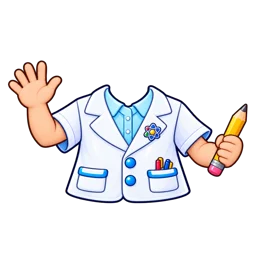
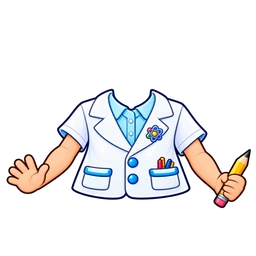
새 캐릭터 앤지 추가, 캐릭터 그림과 착용 위치 다시 맞춤
- 프리셋에 angie(앤지) 추가, 이름 ko/en
- 수지·지호·나연 얼굴 그림과 의상 그림 교체(손 위치 낮춤), 캐시 무효화용 ?v= 쿼리
- 리그 재조정: 얼굴 크기·위치, 머리 장식·리본·머리핀(clipY)·안경 위치, 상체 옷깃 중심 보정(BODY_FACE_SHIFT_X)

Changed region(s): [[0.0, 0.2188, 1.0, 0.8125]]

diff --git a/public/core/character.js b/public/core/character.js
@@ -2,7 +2,7 @@
  * character.js - 캐릭터 그리기. 모든 화면과 게임이 이것 하나로 캐릭터를 보여 줍니다.
  *
  *   const c = createCharacter(el, look, { body: true })
- *     look = { key, face: 얼굴 그림 주소, rig: 'sooji'|'jiho'|'nayeon'|'photo', equipped: { outfit, head, face, back, pet } }
+ *     look = { key, face: 얼굴 그림 주소, rig: 'sooji'|'jiho'|'nayeon'|'angie'|'photo', equipped: { outfit, head, face, back, pet } }
  *     body: false 면 얼굴만(머리 장식·안경은 그대로) 그립니다.
  *   c.react('correct'|'wrong'|'timeout'|'clear'|'fail'|'idle')   표정 + 동작
  *   c.expression('neutral'|'happy'|'angry'|'surprised'|'sad')     표정만 바꾸기(다음 react 전까지 유지)
@@ -17,6 +17,8 @@ import { COSMETICS, BASE_OUTFIT } from './catalog.js';
 const EXPRESSIONS = ['neutral', 'happy', 'angry', 'surprised', 'sad'];
 const BOX_W = 250;
 const BOX_H = 275;
+/* 상체의 옷깃 중심에 맞춰 얼굴과 얼굴 장식을 함께 오른쪽으로 옮깁니다. */
+const BODY_FACE_SHIFT_X = 6;
 
 /* 착용 위치(기준 좌표 px). 캐릭터 그림에서 눈 높이·정수리·어깨선을 재서 맞췄습니다. */
 const BASE_RIG = {
@@ -30,16 +32,29 @@ const BASE_RIG = {
   bow: { headY: -42, headW: 145 }
 };
 export const RIGS = {
-  sooji: { ...BASE_RIG, headX: '45.5%', headW: 198, glassesX: '42%', glassesAngle: -8.7 },
+  /* 애니메이션 수지: 제작 시트의 공통 투명 여백을 정리한 512×512 런타임 셀. */
+  sooji: { ...BASE_RIG, faceY: -56, faceW: 300, faceH: 300,
+    headX: '45.5%', headY: -96, headW: 218, clipY: -10, glassesX: '47%', glassesY: 62,
+    glassesW: 142, glassesScale: 1.1, glassesAngle: -8.7,
+    bow: { headY: -58, headW: 155 } },
   jiho: {
-    ...BASE_RIG, faceY: -21, faceW: 174, faceH: 196, headX: '52%', headY: -90, headAngle: 5,
-    glassesX: '48%', glassesAngle: -4.9, bow: { headY: -35, headW: 132 }
+    ...BASE_RIG, faceX: '50.7%', faceY: -64.2, faceW: 263.4, faceH: 263.4,
+    headY: -114, headW: 218, headAngle: 0, clipY: -28,
+    glassesY: 59.5, glassesW: 138, glassesScale: 1.15,
+    bow: { headY: -76, headW: 155 }
   },
-  /* 목 없는 단발 머리와 정면 눈높이에 맞춰 얼굴 영역과 장식 위치를 조정합니다. */
+  /* 눈–턱 크기와 피부 턱끝 높이는 수지 기준. 얼굴·머리카락은 의상 앞에 그립니다. */
   nayeon: {
-    ...BASE_RIG, faceY: -8, faceW: 194, faceH: 218,
-    headY: -68, headW: 198, headAngle: 0,
-    glassesY: 80, glassesW: 114, glassesScale: 1.35, bow: { headY: -29, headW: 140 }
+    ...BASE_RIG, faceX: '49.2%', faceY: -78.4, faceW: 327.8, faceH: 327.8,
+    headY: -117, headW: 218, headAngle: 0, clipY: -34,
+    glassesY: 60.5, glassesW: 134, glassesScale: 1.15,
+    bow: { headY: -79, headW: 155 }
+  },
+  angie: {
+    ...BASE_RIG, faceX: '45.8%', faceY: -64.8, faceW: 300, faceH: 300,
+    headX: '47%', headY: -111, headW: 218, headAngle: 0, clipY: -25,
+    glassesY: 59, glassesW: 140, glassesScale: 1.1,
+    bow: { headY: -73, headW: 155 }
   },
   /* 사진 캐릭터: 정사각형 칸, 눈이 칸의 54% 높이(core/maker.js 의 EYE_Y) */
   photo: { ...BASE_RIG, faceY: 2, faceW: 200, faceH: 200, headY: -70, glassesY: 75, glassesW: 128, bow: { headY: -34, headW: 140 } }
@@ -113,6 +128,8 @@ export function createCharacter(el, look, { body = true } = {}) {
     current = next;
     const r = RIGS[next.rig] || RIGS.photo;
     const eq = next.equipped || {};
+    const faceShiftX = body ? BODY_FACE_SHIFT_X : 0;
+    const faceAnchorX = (x) => faceShiftX ? `calc(${px(x)} + ${faceShiftX}px)` : x;
     /* 가면처럼 위로 긴 안경도 렌즈 구멍을 캐릭터 눈높이에 맞춥니다(그림은 2:1). */
     /* 렌즈 중심 = glassesY + 0.53 × glassesW/2 를 기준점으로 두고, 배율을 키워도 이 점이 움직이지 않게 합니다. */
     const glassesW = r.glassesW * (r.glassesScale ?? 1);
@@ -121,13 +138,14 @@ export function createCharacter(el, look, { body = true } = {}) {
     const bow = COSMETICS[eq.head]?.style === 'bow';
     const clip = COSMETICS[eq.head]?.style === 'clip';
     const vars = {
-      '--face-x': r.faceX, '--face-y': r.faceY, '--face-w': r.faceW, '--face-h': r.faceH,
-      '--head-x': clip ? `calc(${r.faceX} + ${r.faceW * 0.28}px)` : r.headX,
-      '--head-y': clip ? r.faceY + 12 : bow ? r.bow.headY : r.headY,
+      '--face-x': faceAnchorX(r.faceX), '--face-y': r.faceY, '--face-w': r.faceW, '--face-h': r.faceH,
+      '--head-x': clip ? `calc(${r.faceX} + ${r.faceW * 0.28 + faceShiftX}px)` : faceAnchorX(r.headX),
+      '--head-y': clip ? (r.clipY ?? r.faceY + 12) : bow ? r.bow.headY : r.headY,
       '--head-w': clip ? 90 : bow ? r.bow.headW : r.headW,
       '--head-angle': r.headAngle + 'deg',
-      '--glasses-x': r.glassesX, '--glasses-y': glassesY, '--glasses-w': glassesW, '--glasses-angle': r.glassesAngle + 'deg',
-      '--back-right': r.backRight, '--back-bottom': r.backBottom, '--back-w': r.backW, '--outfit-bottom': r.outfitBottom
+      '--glasses-x': faceAnchorX(r.glassesX), '--glasses-y': glassesY, '--glasses-w': glassesW, '--glasses-angle': r.glassesAngle + 'deg',
+      '--back-right': r.backRight, '--back-bottom': r.backBottom, '--back-w': r.backW,
+      '--outfit-bottom': r.outfitBottom
     };
     for (const [k, v] of Object.entries(vars)) rig.style.setProperty(k, px(v));
     /* 얼굴만 그릴 때는 얼굴 칸을 기준 상자로 씁니다. */

diff --git a/public/core/i18n.js b/public/core/i18n.js
@@ -36,7 +36,7 @@ const CORE = {
     failLoad: '얼굴 찾기 도구를 받지 못했어요. 연결을 확인해 주세요.', failWork: '사진을 처리하지 못했어요.',
     failSave: '저장하지 못했어요.', tooManyCharacters: '사진 캐릭터는 5개까지 만들 수 있어요.',
     privacy: '원본 사진은 이 기기 밖으로 나가지 않아요. 배경을 지운 얼굴 그림만 내 계정에 저장돼요.',
-    sooji: '수지', jiho: '지호', nayeon: '나연',
+    sooji: '수지', jiho: '지호', nayeon: '나연', angie: '앤지',
     ranking: '랭킹', rankWeek: '이번 주', rankAll: '명예의 전당', rankTotal: '전체', rankStars: '★ {n}',
     rankMe: '내 순위', rankNth: '{n}위', rankNone: '아직 기록이 없어요', rankEmpty: '아직 아무도 없어요. 첫 번째 주인공이 되어 볼까요?',
     guestPlay: '손님으로 해 보기', guestNote: '손님으로 놀고 있어요. 계정을 만들면 모은 것이 그대로 남고 Sparkles {n}을 더 받아요!',
@@ -81,7 +81,7 @@ const CORE = {
     failLoad: "Couldn't download the face tools. Check your connection.", failWork: "Couldn't process the photo.",
     failSave: "Couldn't save.", tooManyCharacters: 'You can make up to 5 photo characters.',
     privacy: 'Original photos never leave this device. Only the cut-out face is saved to your account.',
-    sooji: 'Sooji', jiho: 'Jiho', nayeon: 'Nayeon',
+    sooji: 'Sooji', jiho: 'Jiho', nayeon: 'Nayeon', angie: 'Angie',
     ranking: 'Ranking', rankWeek: 'This week', rankAll: 'Hall of Fame', rankTotal: 'All', rankStars: '★ {n}',
     rankMe: 'My rank', rankNth: '#{n}', rankNone: 'No record yet', rankEmpty: 'Nobody yet. Be the first star!',
     guestPlay: 'Play as a guest', guestNote: "You're playing as a guest. Make an account to keep everything and get {n} bonus Sparkles!",

diff --git a/tests/server.test.js b/tests/server.test.js
@@ -111,18 +111,18 @@ test('pets can be bought, saved per character and removed without changing the o
   assert.equal(me.user.sparkles, 75);
 });
 
-test('Nayeon preset can be selected, dressed and loaded without a photo upload', async () => {
+for (const preset of ['nayeon', 'angie']) test(`${preset} preset can be selected, dressed and loaded without a photo upload`, async () => {
   const a = client();
-  await a('POST', '/api/signup', { nickname: 'nayeon-test', pin: '1234' });
-  const selected = await a('PATCH', '/api/settings', { character: 'nayeon' });
+  await a('POST', '/api/signup', { nickname: `${preset}-test`, pin: '1234' });
+  const selected = await a('PATCH', '/api/settings', { character: preset });
   assert.equal(selected.status, 200);
-  assert.equal(selected.body.settings.character, 'nayeon');
-  assert.equal(selected.body.settings.rankFace, 'nayeon');
-  assert.equal((await a('PUT', '/api/looks/nayeon', { equipped: { outfit: 'uniform' } })).status, 200);
+  assert.equal(selected.body.settings.character, preset);
+  assert.equal(selected.body.settings.rankFace, preset);
+  assert.equal((await a('PUT', `/api/looks/${preset}`, { equipped: { outfit: 'uniform' } })).status, 200);
   const me = (await a('GET', '/api/me')).body;
-  assert.equal(me.user.settings.character, 'nayeon');
-  assert.equal(me.looks.nayeon.outfit, 'uniform');
-  const asset = await client()('GET', '/assets/characters/nayeon.webp');
+  assert.equal(me.user.settings.character, preset);
+  assert.equal(me.looks[preset].outfit, 'uniform');
+  const asset = await client()('GET', `/assets/characters/${preset}.webp`);
   assert.equal(asset.status, 200);
   assert.equal(asset.body.subarray(0, 4).toString(), 'RIFF');
   assert.equal(asset.body.subarray(8, 12).toString(), 'WEBP');

diff --git a/public/core/catalog.js b/public/core/catalog.js
@@ -4,12 +4,12 @@
  */
 
 /* 프리셋 캐릭터. 모든 계정에 항상 보입니다. 사진 캐릭터 키는 'p<id>' 입니다. */
-export const PRESETS = ['sooji', 'jiho', 'nayeon'];
+export const PRESETS = ['sooji', 'jiho', 'nayeon', 'angie'];
 
 /* 의상 선택이 없으면 렌더러가 기본 흰색 티셔츠를 그립니다. */
 export const SLOTS = ['outfit', 'head', 'face', 'back', 'pet'];
 export const DEFAULT_LOOK = { outfit: null, head: null, face: null, back: null, pet: null };
-export const BASE_OUTFIT = 'assets/wearables/outfits/11-white-tee.webp';
+export const BASE_OUTFIT = 'assets/wearables/outfits/11-white-tee.webp?v=hands-low-20261008';
 
 const W = 'assets/wearables/';
 const cos = (slot, file, price, ko, en, extra) =>

diff --git a/public/core/state.js b/public/core/state.js
@@ -45,7 +45,7 @@ export function lookFor(key = currentKey()) {
   return {
     key,
     rig: photo ? 'photo' : key,
-    face: photo ? `api/characters/${key.slice(1)}/face` : `assets/characters/${key}.webp`,
+    face: photo ? `api/characters/${key.slice(1)}/face` : `assets/characters/${key}.webp?v=${key === 'nayeon' ? 'long-hair-20261008' : 'anime-20261008'}`,
     equipped: { ...DEFAULT_LOOK, ...state.me?.looks?.[key] }
   };
 }
